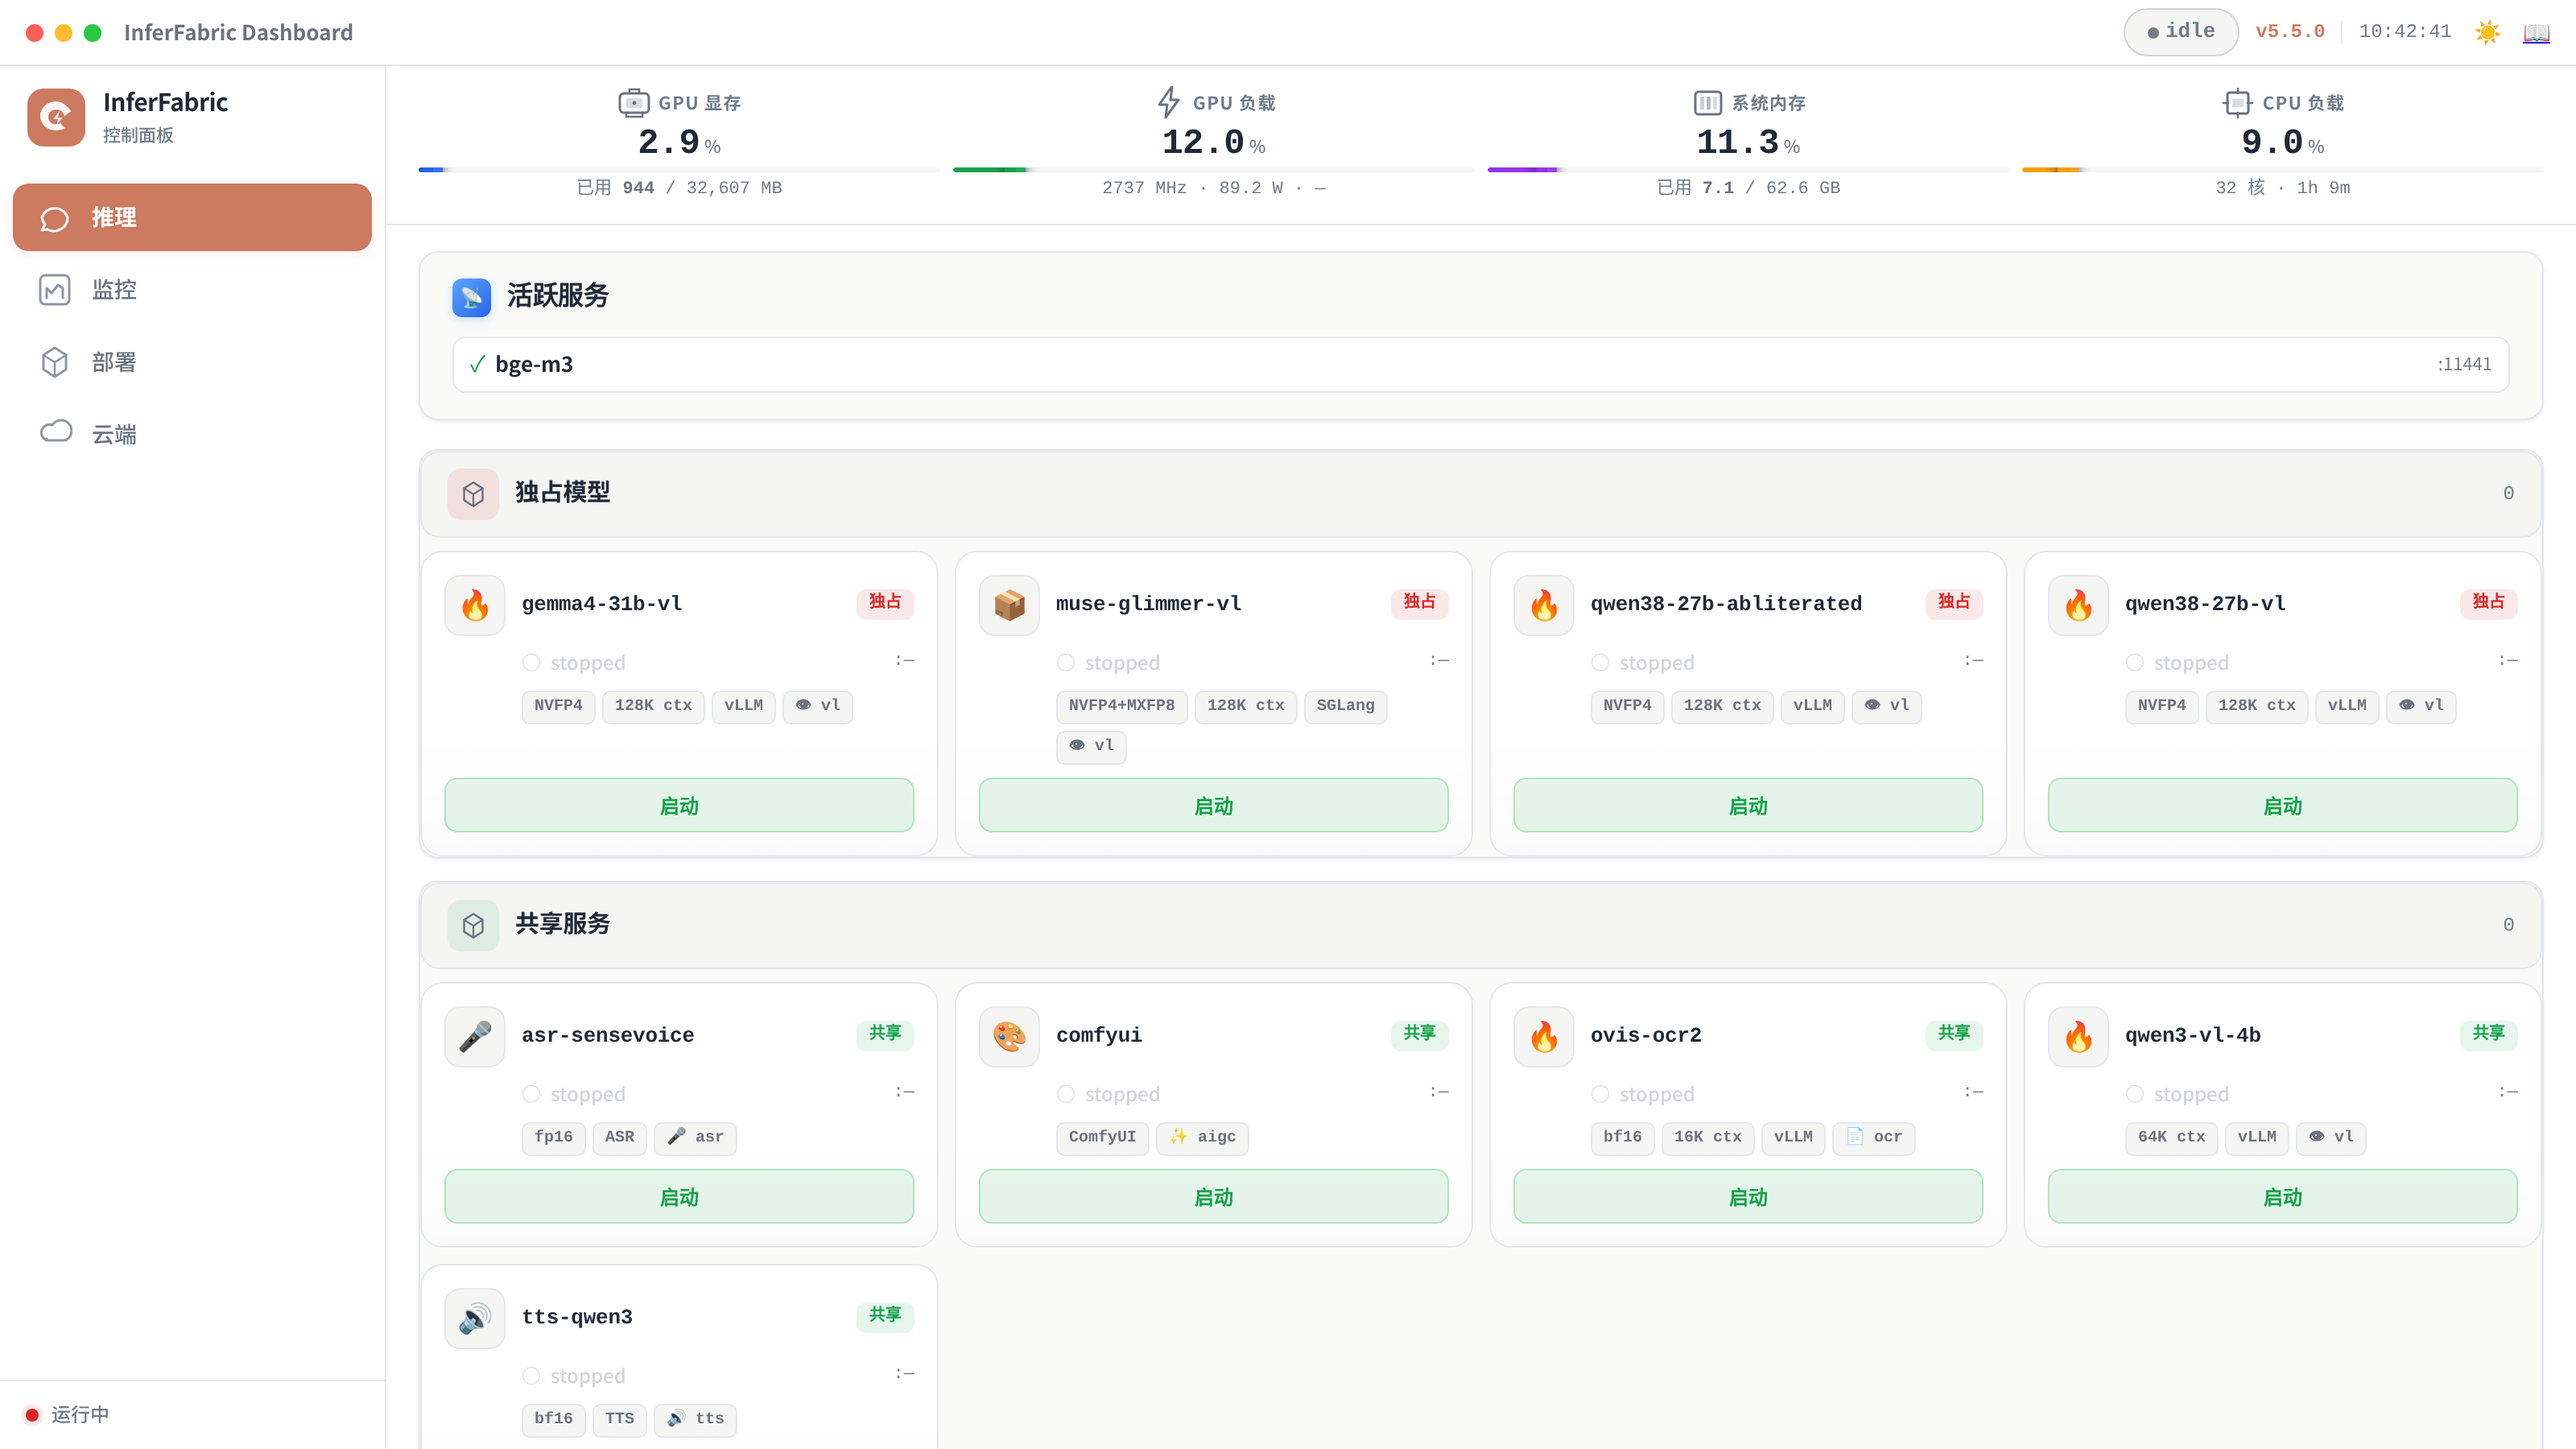
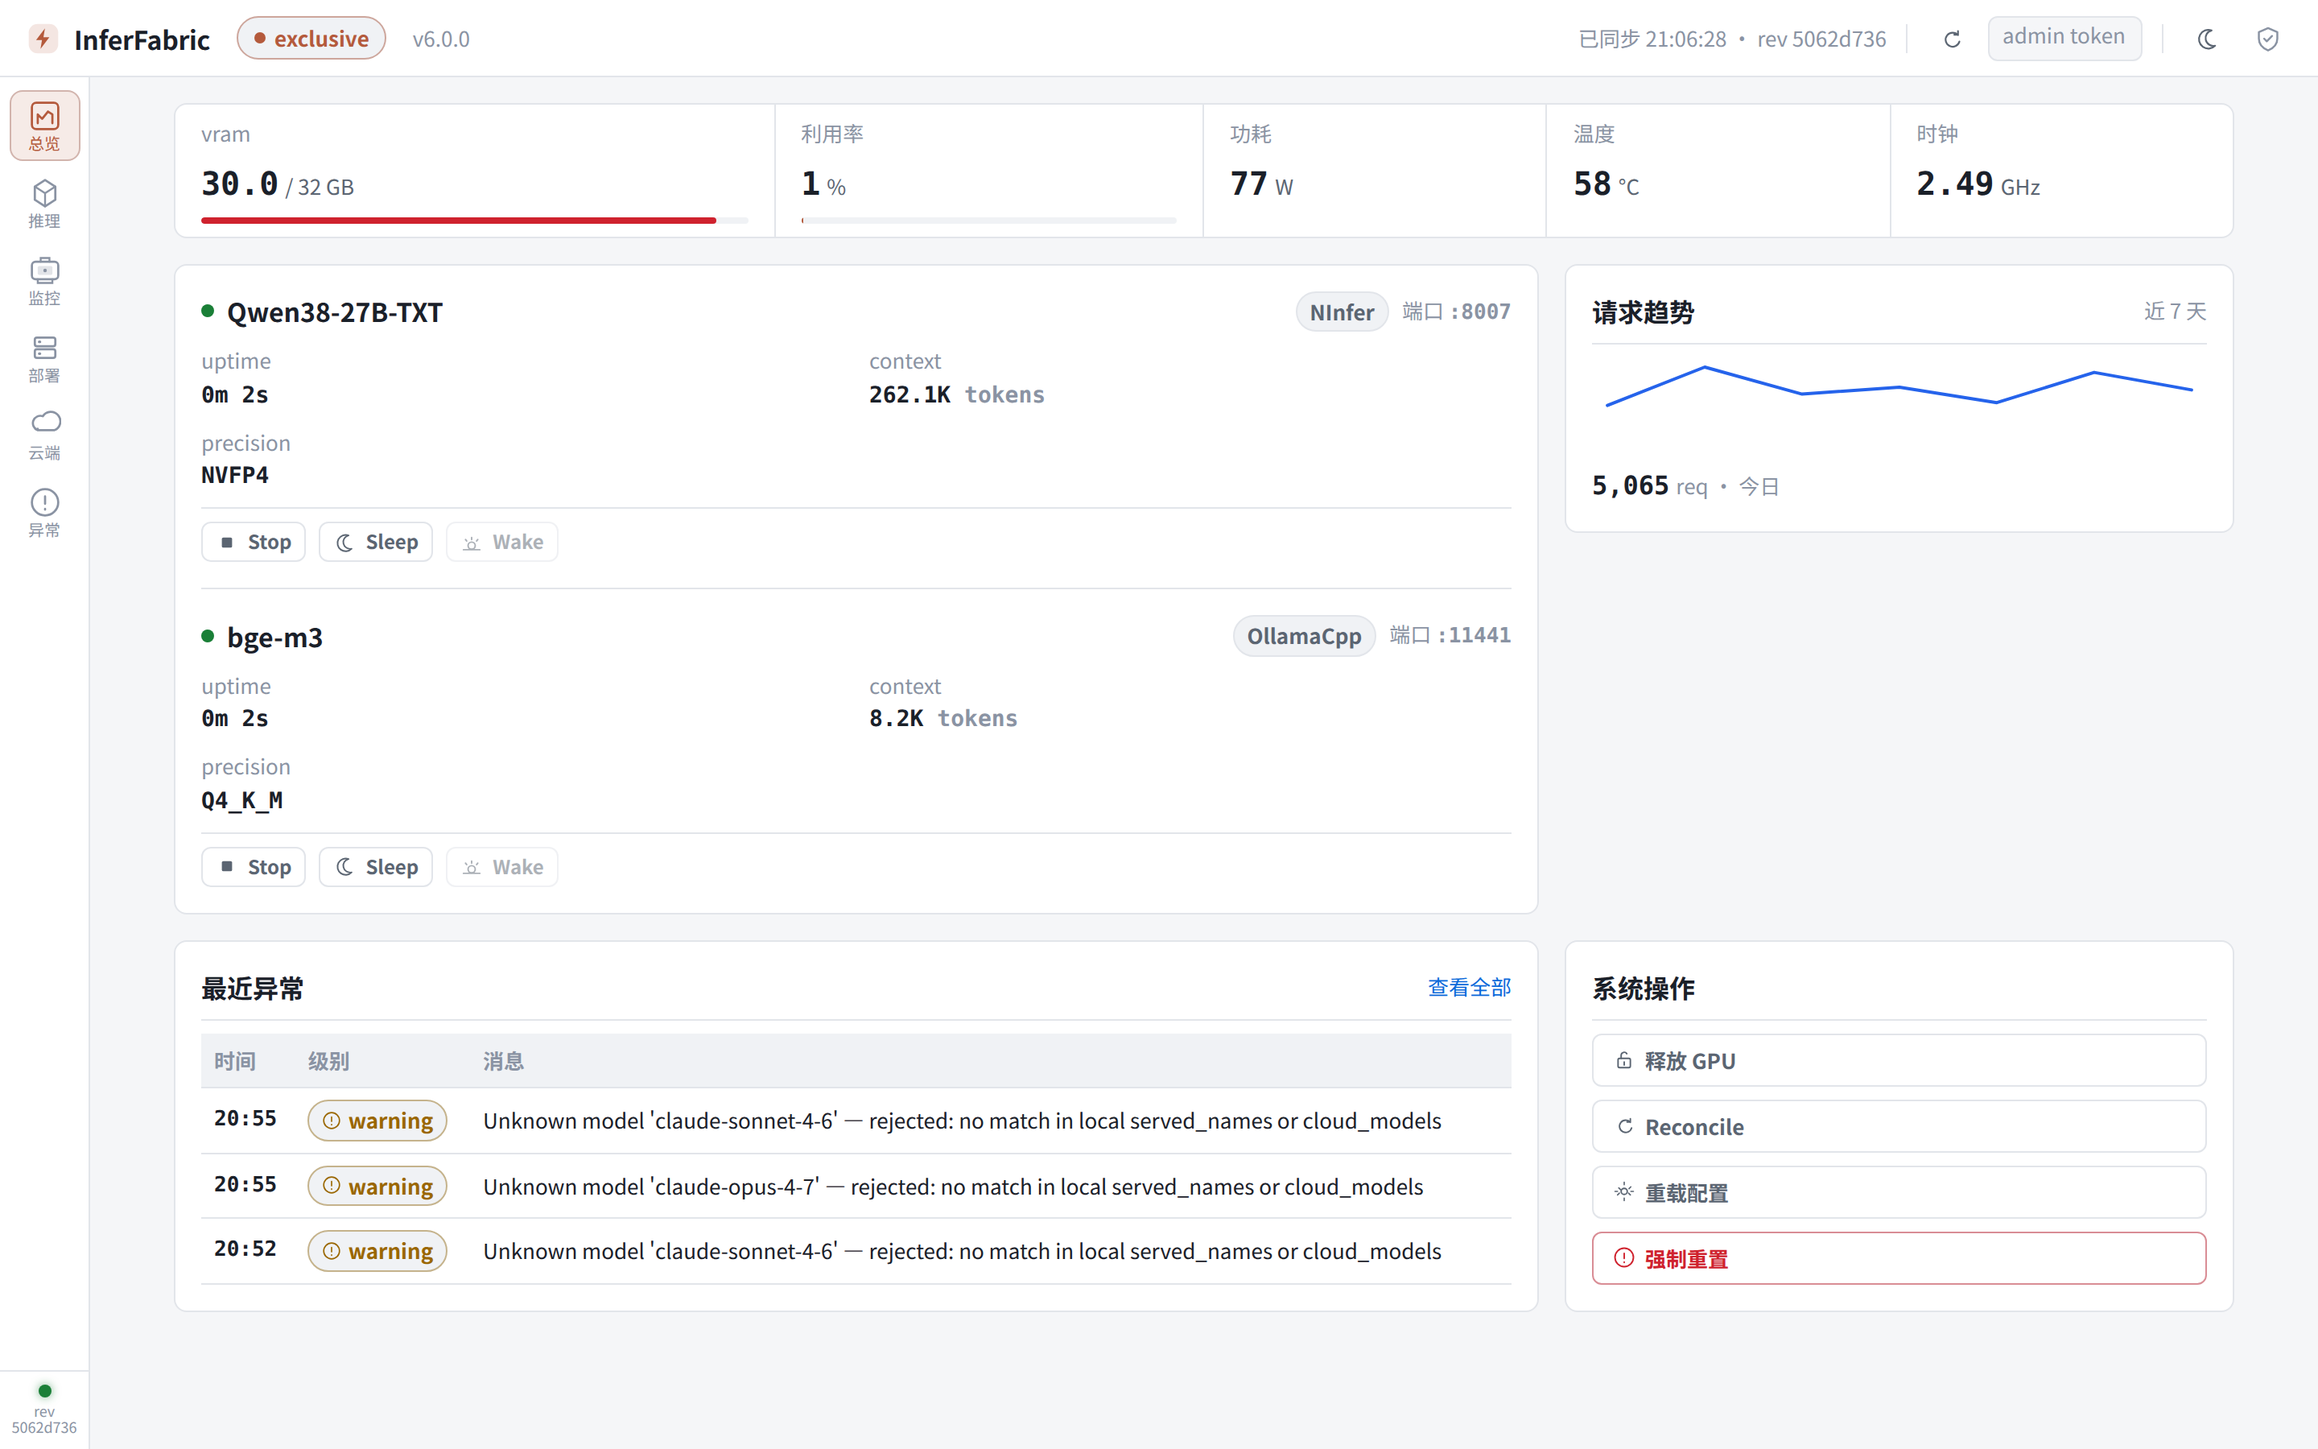
docs(readme): Dashboard v6.0.x — 截图刷新 + README 同步实际功能
- 截图：6 张新截图（总览/推理/监控/云端/异常 + 全页），删除已废弃的
  03-chat-panel.png（Chat tab 已移除）与 05-gpu-status.png（更名为 05-anomaly）
- README Dashboard 段：v5.5.x → v6.0.x；5 图表替换为新截图；Features 重写
  反映实际六 tab（总览/推理/监控/部署/云端/异常）、6-KPI 2×3 面板（含
  Batch Size + 统一 TPOT(ms)/TTFT(s) 单位）、30 天标准化柱状图、引擎无关
  DB 源 token 统计、local/cloud 双图、engine_metrics 路由、双协议路由
- 定位表：移除已废弃的"聊天"
- Version History：新增 v6.0.0 行（数据链引擎无关化 + 双图 + KPI 2×3）

diff --git a/README.md b/README.md
@@ -22,7 +22,7 @@
 | 推理引擎 | 9 种适配器：vLLM/NInfer/SGLang/Ollama/Ollama.cpp/ComfyUI/TTS/ASR/OllamaDaemon | 一种引擎一套工具链 |
 | 云端代理 | 9 个预设 + 自动发现 + 同一 API 路由 | 每个云商一套 SDK/Key 管理 |
 | 治理 | 重试/熔断/缓存/限流/超时/负载均衡/异常采集/全链路日志 | 无（直连引擎） |
-| 管理界面 | macOS 风格 Dashboard（监控/切换/聊天/部署/OpenAPI 阅览） | 终端 curl 或 YAML 编辑 |
+| 管理界面 | macOS 风格 Dashboard（监控/切换/部署/OpenAPI 阅览） | 终端 curl 或 YAML 编辑 |
 
 **设计哲学**：吃自己的狗粮。InferFabric 把本地模型暴露为 Anthropic 兼容 API——你可以把 `ANTHROPIC_BASE_URL` 指回本地 `localhost:8999`，用 Claude Code 驱动开发同时验证推理网关的兼容性和性能。反馈闭环即产品验证。**自 5.8.0 起是一条命令加 `--async` 即可启用生产级 aiohttp 异步引擎。**
 
@@ -341,29 +341,31 @@ API Keys are never stored in plaintext—automatically converted to `${ENV_VAR}`
 
 ---
 
-## Dashboard (v5.5.x)
+## Dashboard (v6.0.x)
 
-A macOS-inspired sidebar dashboard for model management, monitoring, and chat testing:
+A macOS-inspired sidebar dashboard for model management, monitoring, and multi-engine inference:
 
 | | |
 |:---:|:---:|
-| **Overview — GPU metrics + model cards** | **Cloud providers management** |
-| ![Dashboard Overview](docs/screenshots/00-dashboard-overview.png) | ![Cloud Providers](docs/screenshots/02-cloud-providers.png) |
-| **Chat inference panel** | **Metrics & monitoring** |
-| ![Chat Panel](docs/screenshots/03-chat-panel.png) | ![Metrics](docs/screenshots/04-metrics.png) |
-| **GPU status & vLLM performance** | |
-| ![GPU Status](docs/screenshots/05-gpu-status.png) | |
+| **Overview — GPU metrics + model cards** | **Inference — model lifecycle & engine metrics** |
+| ![Dashboard Overview](docs/screenshots/00-dashboard-overview.png) | ![Inference](docs/screenshots/03-inference.png) |
+| **Metrics & monitoring** | **Cloud providers management** |
+| ![Metrics](docs/screenshots/04-metrics.png) | ![Cloud Providers](docs/screenshots/02-cloud-providers.png) |
+| **Anomaly detection** | |
+| ![Anomaly](docs/screenshots/05-anomaly.png) | |
 
 **Features**:
-- Sidebar navigation (推理/监控/云端/部署/Chat)
-- Live 4-metric bar: GPU memory · GPU load · System memory · CPU load
-- Model card grid with macOS-icon-box layout, status badges, start/stop controls
-- vLLM performance panels: token throughput, latency distribution, KV cache usage
-- Token usage charts with time-series visualization
-- Cloud provider management: CRUD, auto-discover, connection test
-- Chat inference panel with local + cloud model support, streaming responses
-- Dark mode, typography hierarchy, WCAG AA contrast
-- OpenAPI spec viewer (📖 link in top bar)
+- Sidebar navigation（总览/推理/监控/部署/云端/异常）
+- Live status rail: GPU memory · GPU load · GPU temp · VRAM · System memory · CPU
+- Overview: model card grid with macOS-icon-box layout, status badges, start/stop controls, live snapshot freshness (ETag / 304 + TTL single-flight cache)
+- Monitor: **6-KPI 2×3 panel**（KV Cache · Batch Size · Seq Length · TPOT ms · TTFT s · Throughput）, GPU time-series ring buffer (3s sampling), local + cloud token-usage charts standardized to **30-day** bars (day / hour / month granularity)
+- **Engine-agnostic token stats**: DB-sourced instead of engine Prometheus counters — works across vLLM / sglang / ninfer; `/api/engine_metrics` route exposes per-model KV cache, batch size, sequence length, latency & throughput
+- **Two-scope token charts**: local engine vs. cloud provider consumption split side-by-side
+- Cloud provider management: CRUD, auto-discover, connection test, API key masked-then-expanded forwarding
+- Anomaly detection: top-N anomalies with severity classification
+- Dual-protocol routing: local vLLM/sglang + cloud OpenAI-compatible, unified via YAML engine-type aliases
+- Dark mode (default) + light mode, typography hierarchy, WCAG AA contrast
+- OpenAPI 3.1.0 spec viewer（📖 link in top bar, 37 endpoints）
 
 ---
 
@@ -564,6 +566,7 @@ bash scripts/iff-recovery.sh --full  # Nuclear: SIGKILL all + nvidia-smi -gpu-re
 | v5.6.7 | 2026-09 | R0: `ensure_service` cooldown fix |
 | v5.6.8 | 2026-09 | **Gateway Hardening**: R1-R10, Prometheus /metrics, AnomalyCollector, silent fallback removal |
 | **v5.8.0** | **2026-09** | **PR-19: Production-grade aiohttp async edge (`--async`)** — hybrid executor model, 7 stream routes with incremental SSE pump, 30+ buffered routes with full header propagation, chunked request body support, 100MB client_max_size, EADDRINUSE retry, systemd sd_notify, C extension wheel rebuild (2.7x perf), dead route cleanup, **path normalization fix**: `/v1/completions`/`/api/chat`/`/api/generate` aliased to `/v1/chat/completions` (engine-type-driven via YAML). |
+| **v6.0.0** | **2026-09** | **Dashboard data-chain engine-agnostic + two-scope** — token stats DB-sourced (no longer vLLM Prometheus-only, works across vLLM/sglang/ninfer); local vs. cloud two-scope token charts; `/api/engine_metrics` route (KV cache / batch size / seq length / TPOT / TTFT / throughput); **6-KPI 2×3 panel** with Batch Size + unified TPOT(ms, 2dp)/TTFT(s, 2dp) units; 30-day standardized bar charts; live snapshot freshness (ETag/304 + TTL single-flight cache); AnomalyCollector tab. |
 
 ---
 
